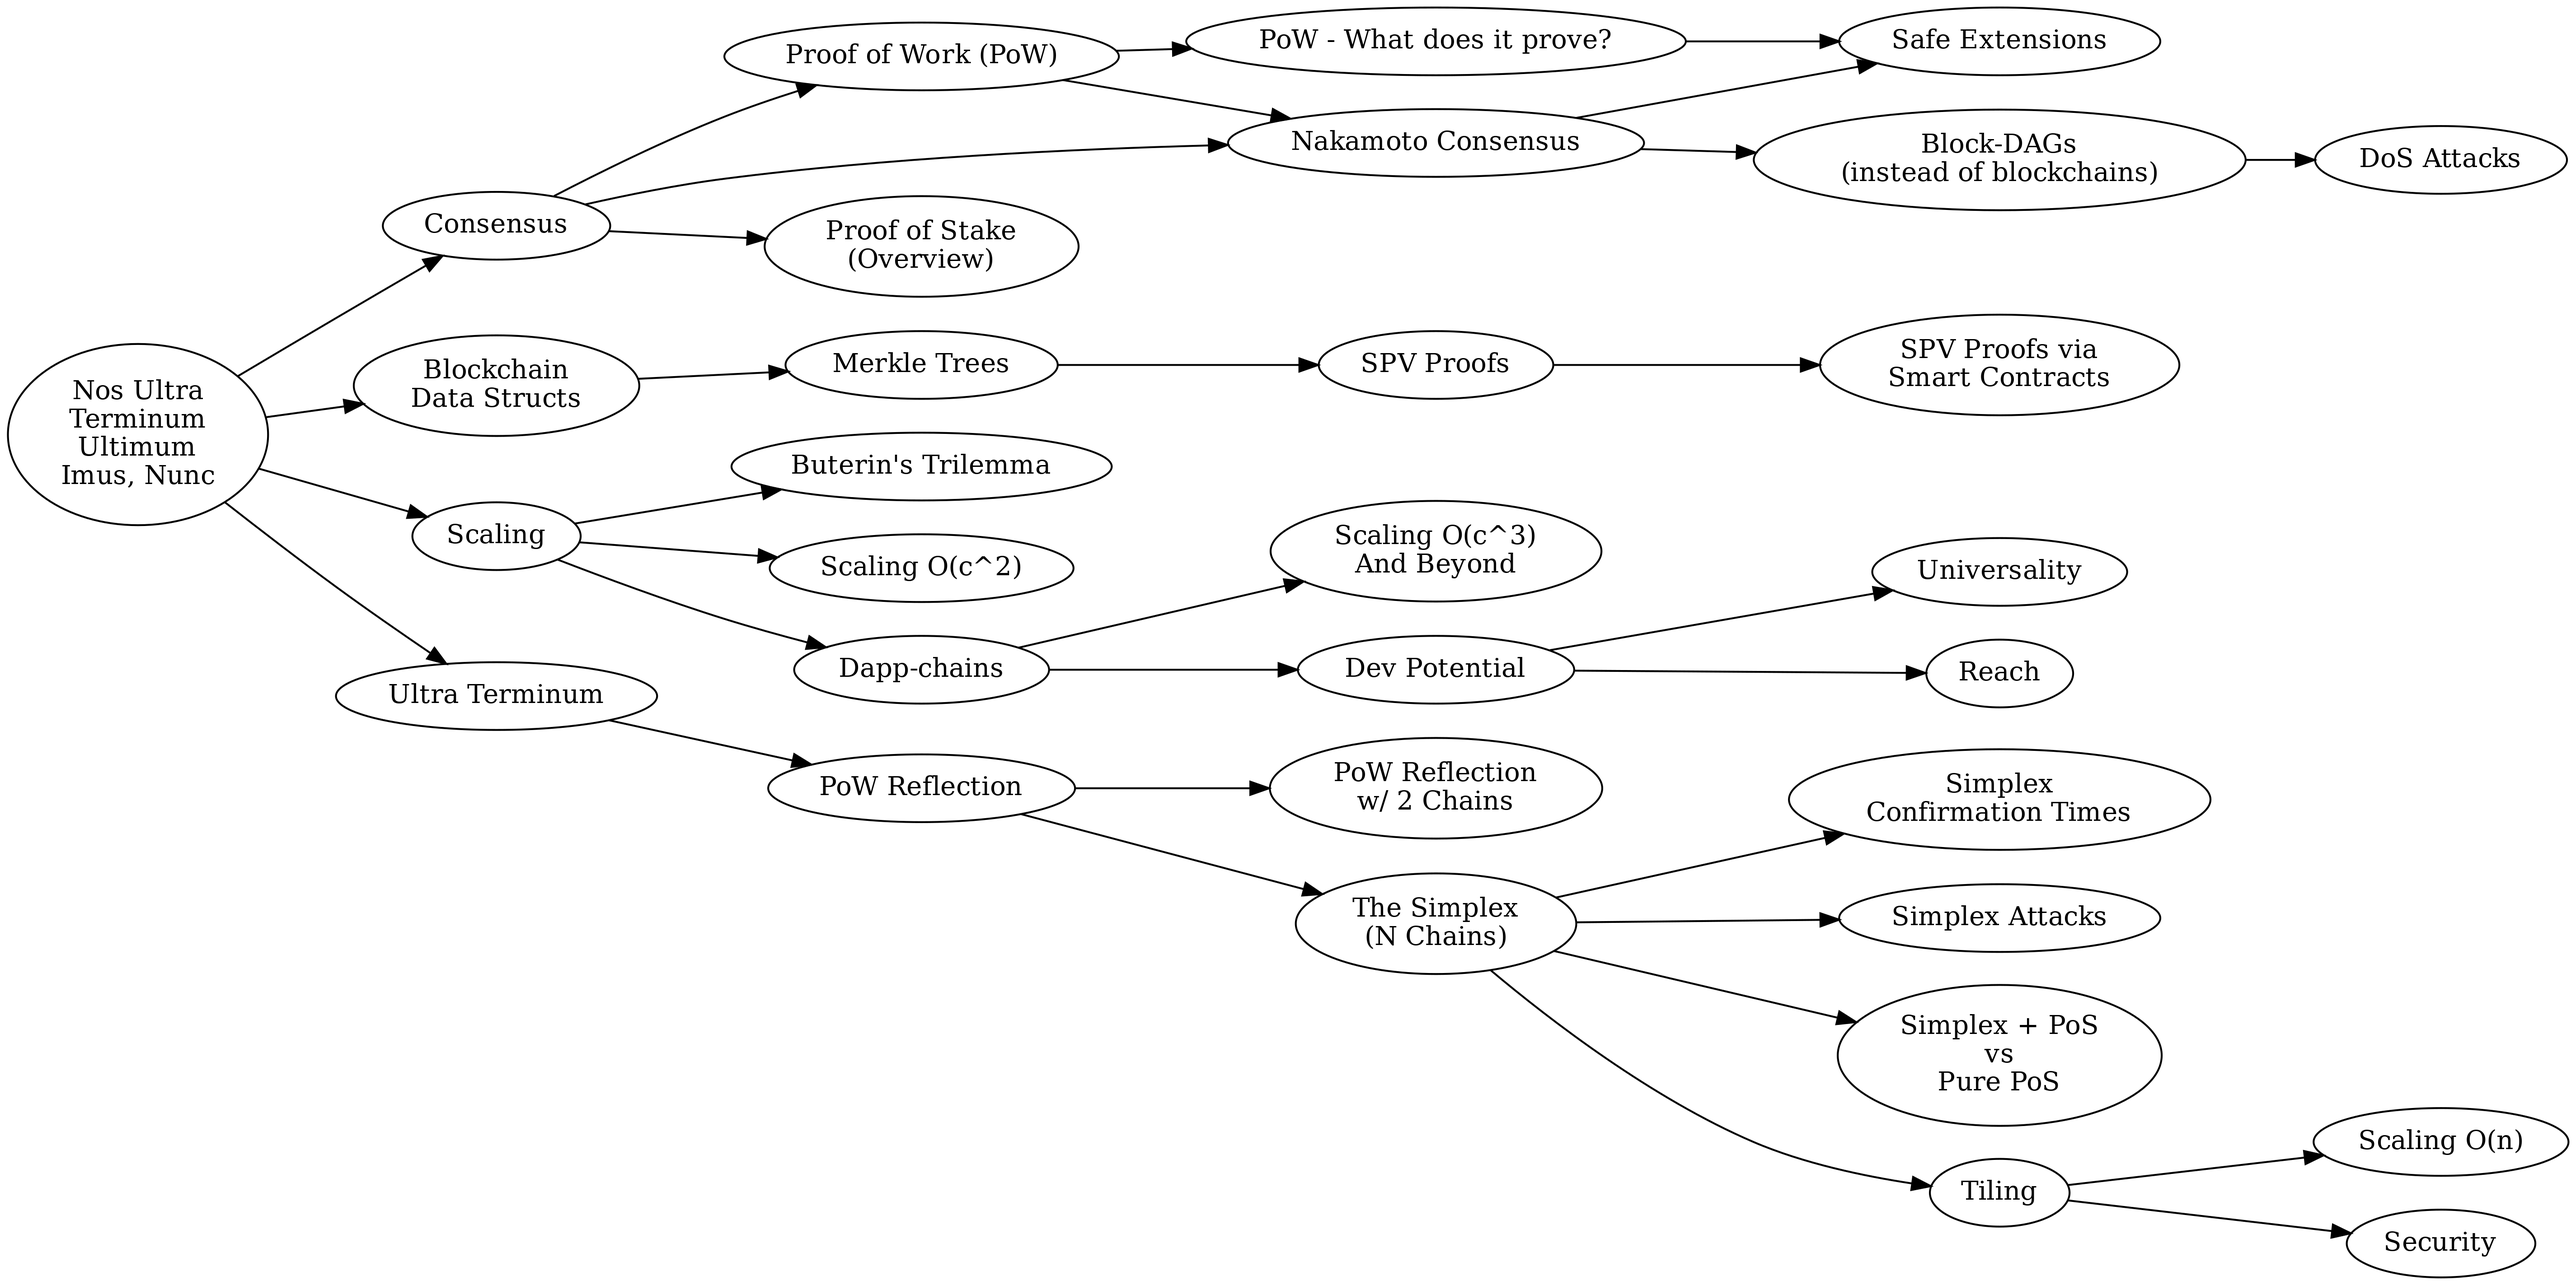
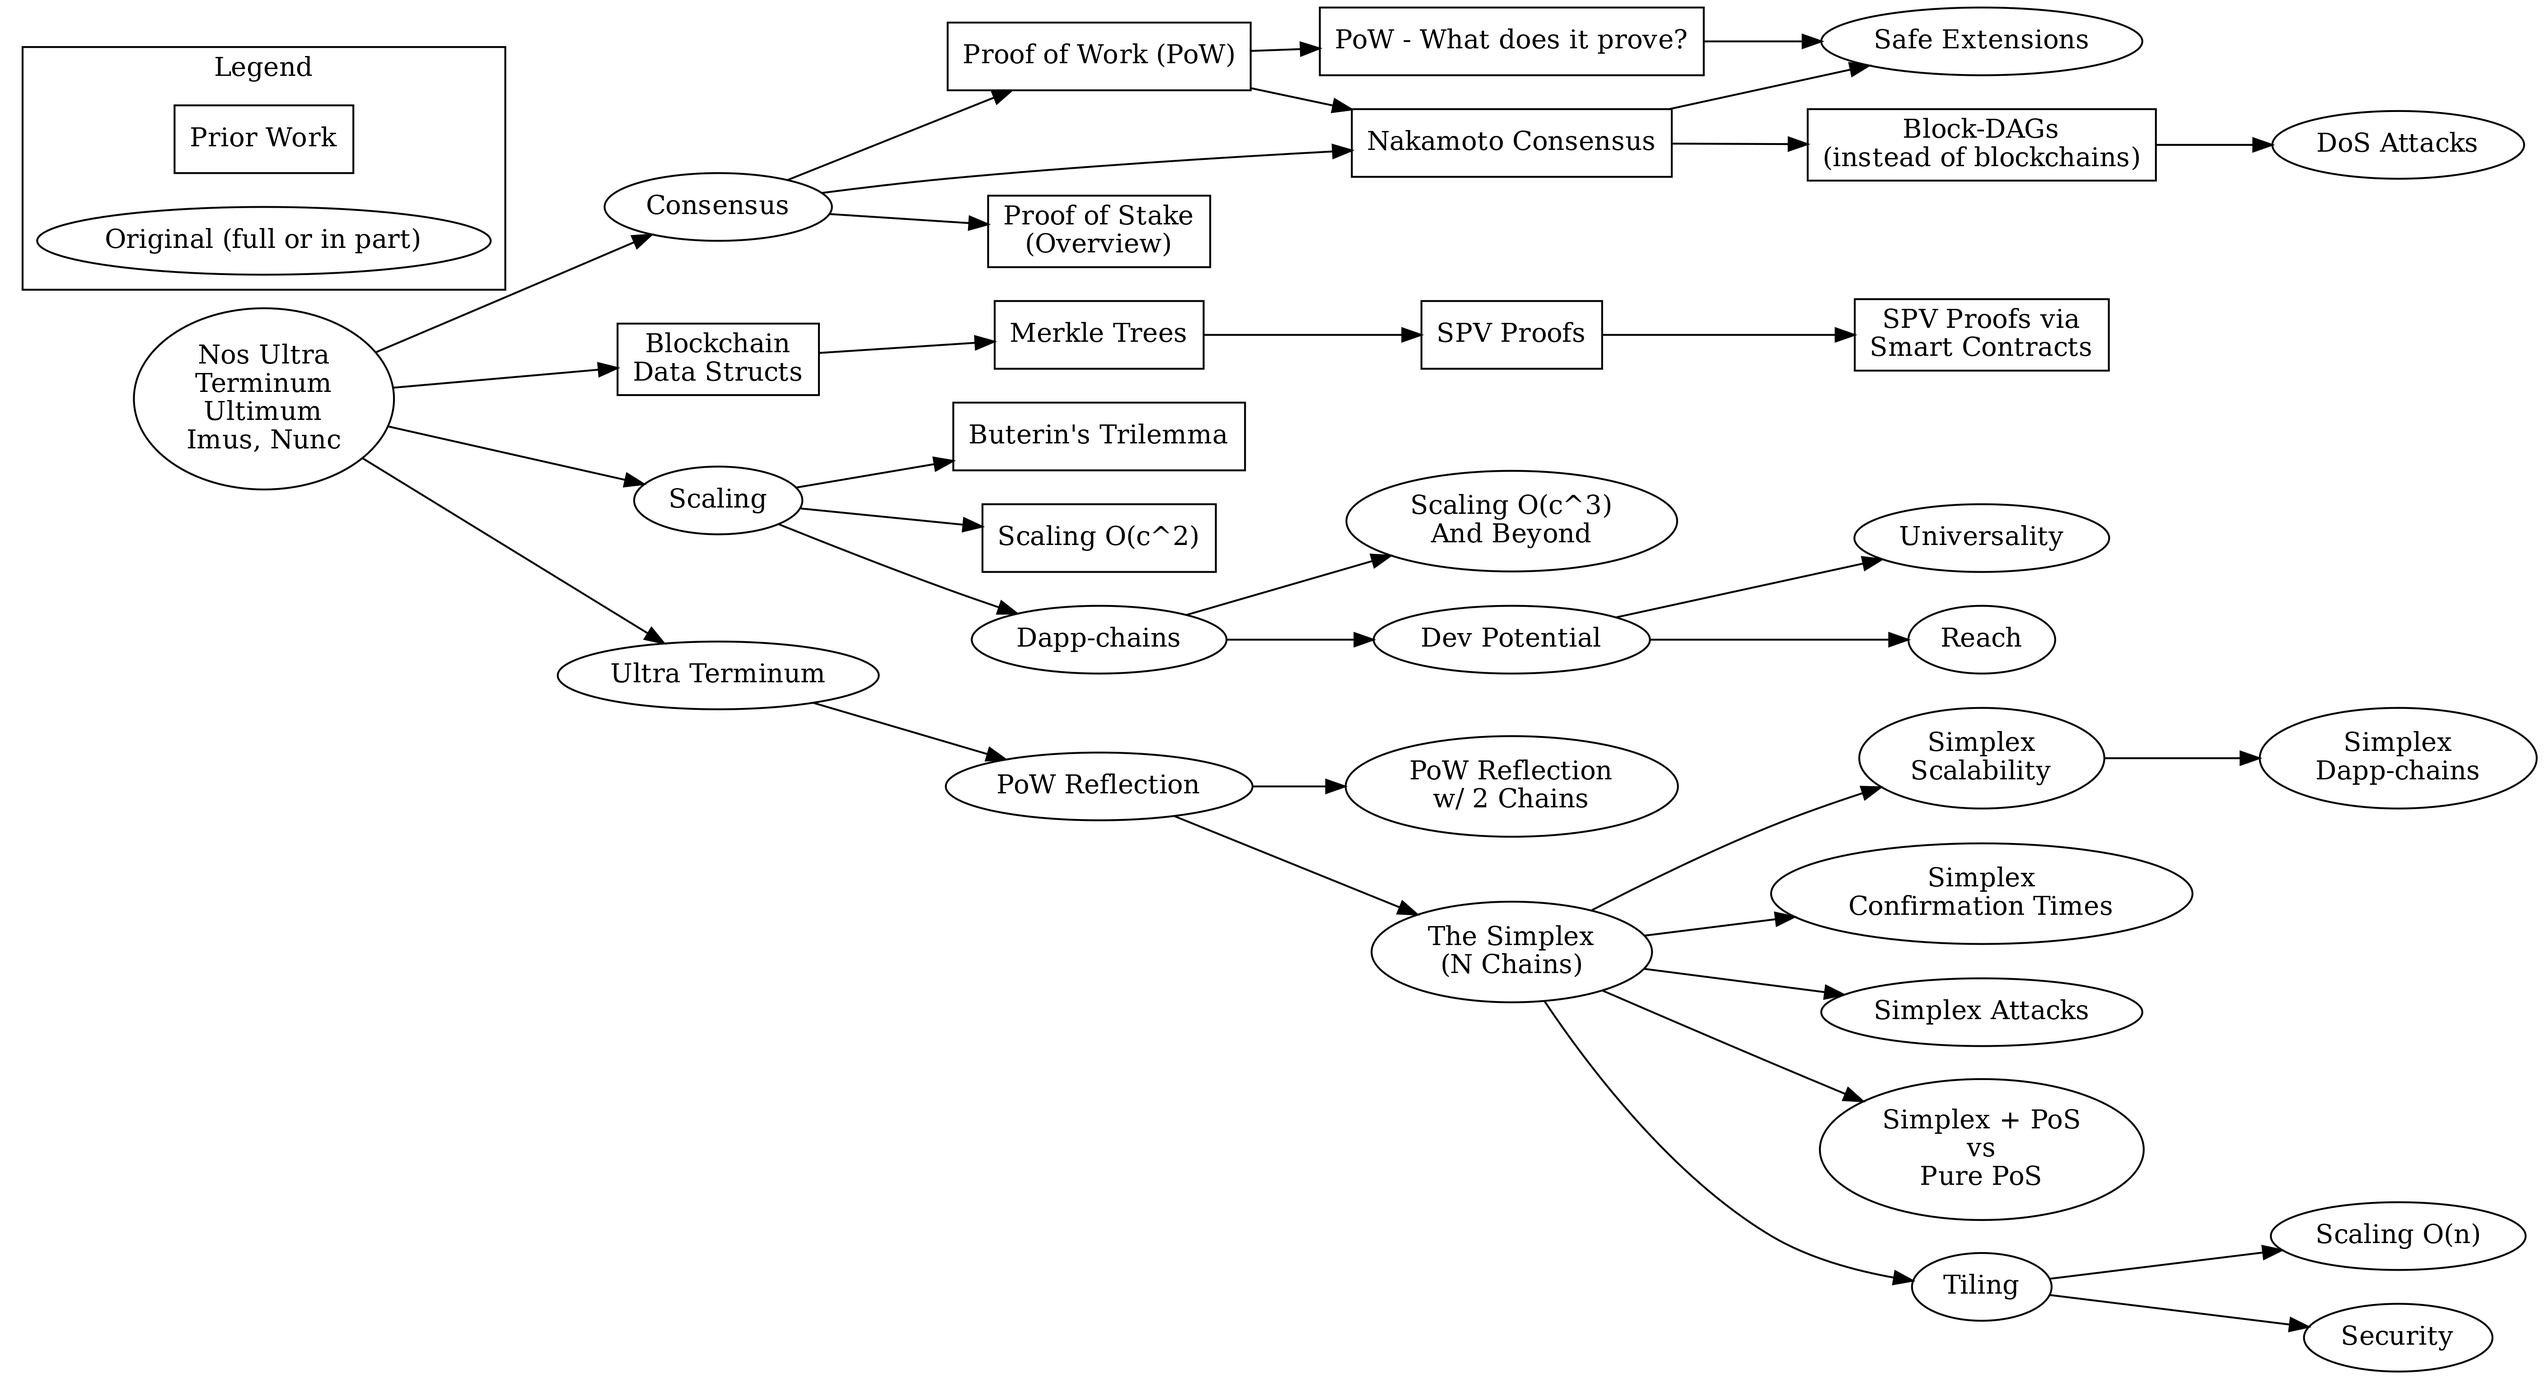
update topic-tree and edits to abstract+intro

diff --git a/10-Ultra-Terminum/02-ut-intro.md b/10-Ultra-Terminum/02-ut-intro.md
@@ -18,6 +18,8 @@ At the core of *Ultra Terminum* is a new method for sharing security: *PoW Refle
 
 As UT is primarily a method of *structuring* a blockchain network, the scalability configurations mentioned herein *do not include **layer 2** methods*. That means that *layer 2* techniques (e.g., state/payment channels, ZK/optimistic rollups, and anchored/side chains) can be implemented *on top* of UT.
 
+UT's unique structure means that confirmation times within UT are of order $\frac{1}{O(c)}$. This is a significant improvement over existing architectures, which are of order $O(1)$. This means that, as computers get more powerful, confirmation times in UT approach 0.
+
 ## Assumed Knowledge
 
 You will need to understand (or, perhaps, have mastered) the following concepts to reliably understand the foundations of *PoW Reflection* and *Ultra Terminum*:

diff --git a/10-Ultra-Terminum/00.md b/10-Ultra-Terminum/00.md
@@ -205,6 +205,8 @@ abstract: |
     Capacity of the $O(n)$ configuration is *independent* of parameters and is *unbounded* -- i.e., practically infinite.
     \par
     Confirmation times within UT are $\frac{1}{O(c)}$.
+    \newline
+    \par
     \textbf{NOTE -- PRERELEASE -- DO NOT SHARE OR DISTRIBUTE!!!}
     \par
     \wordcount words.
